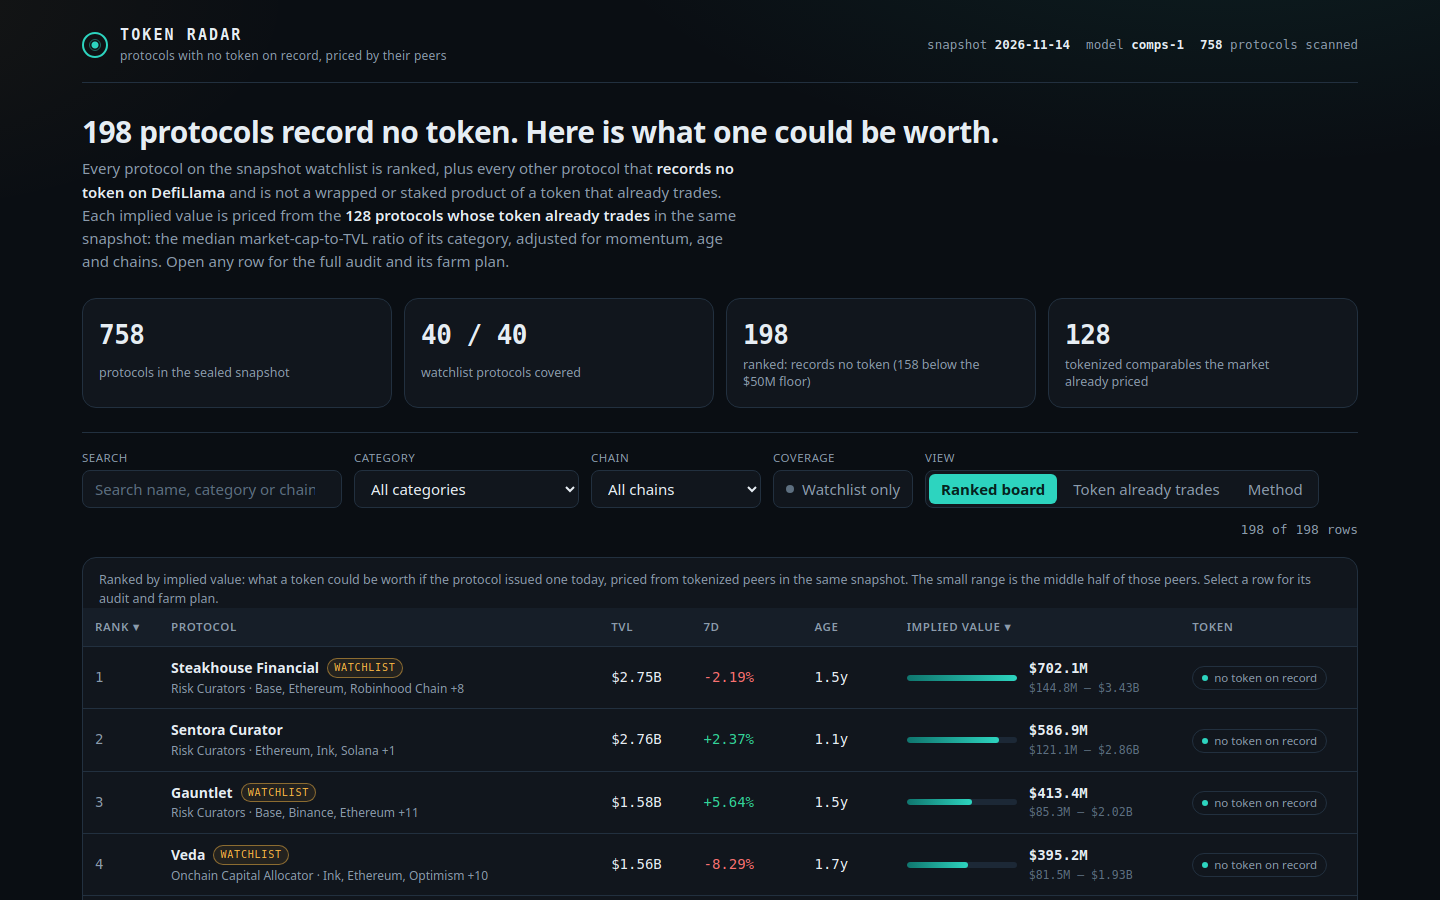
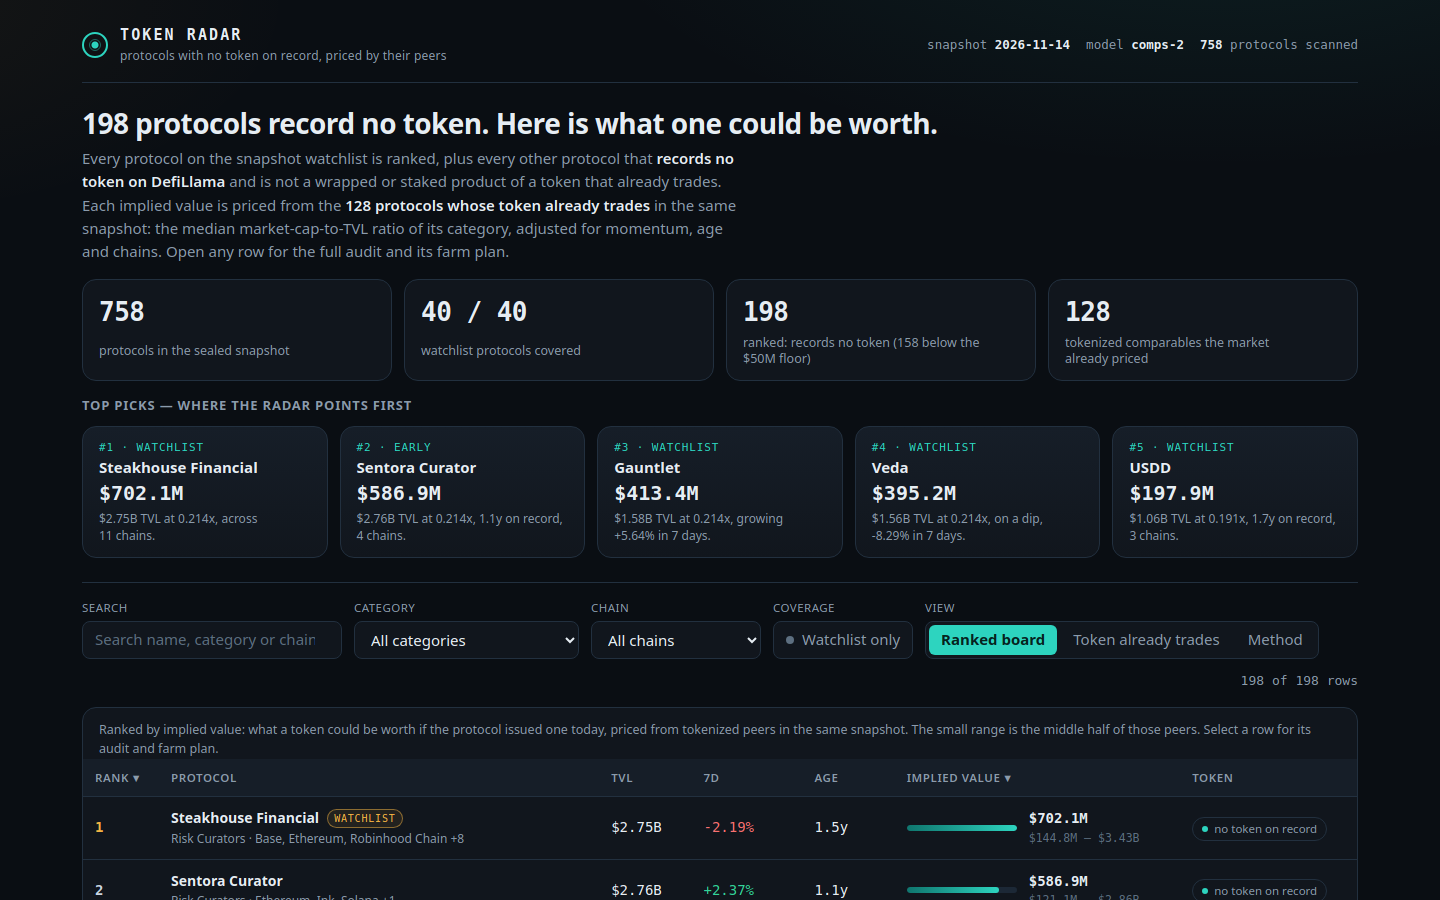
comps-2: thin-sample shrinkage, top-picks strip, risks & caveats in detail view

diff --git a/dashboard/app.js b/dashboard/app.js
@@ -346,6 +346,37 @@
     });
   }
 
+  // ---------------------------------------------------------- top picks
+  // One analyst line per pick: the price first, then whichever fact about the row stands out.
+  function whyLine(row) {
+    var g = DATA.global_ratio.median;
+    var head = row.ratio >= g * 1.5
+      ? 'Priced rich at ' + fmtRatio(row.ratio) + 'x TVL'
+      : fmtUsd(row.tvl_usd) + ' TVL at ' + fmtRatio(row.ratio) + 'x';
+    var tail;
+    if (row.growth_reported && row.change_7d >= 4) tail = 'growing ' + fmtPct(row.change_7d) + ' in 7 days';
+    else if (row.growth_reported && row.change_7d <= -8) tail = 'on a dip, ' + fmtPct(row.change_7d) + ' in 7 days';
+    else if ((row.chains || []).length >= 8) tail = 'across ' + row.chains.length + ' chains';
+    else if (row.age_days !== null && row.age_days !== undefined && row.age_days >= 730) tail = fmtAge(row.age_days) + ' on record';
+    else tail = fmtAge(row.age_days) + ' on record, ' + (row.chains || []).length + ' chains';
+    return head + ', ' + tail + '.';
+  }
+
+  function topPicks() {
+    var picks = DATA.rows.slice(0, 5);
+    return el('section', { class: 'picks', 'aria-label': 'Top five picks' },
+      el('h2', { class: 'picks-h', text: 'Top picks — where the radar points first' }),
+      el('div', { class: 'pick-grid' }, picks.map(function (r) {
+        return el('button', { type: 'button', class: 'pick', onclick: function () { openDetail(r.slug); } },
+          el('span', { class: 'rk', text: '#' + r.rank + (r.on_watchlist ? ' · watchlist' : ' · early') }),
+          el('b', { text: r.name }),
+          el('span', { class: 'pv num', text: fmtUsd(r.implied_value_usd) }),
+          el('span', { class: 'why', text: whyLine(r) })
+        );
+      }))
+    );
+  }
+
   // ---------------------------------------------------------- header, lede, controls
   function header() {
     return el('header', { class: 'top' },
@@ -466,7 +497,7 @@
         onclick: function () { openDetail(r.slug); },
         onkeydown: function (e) { if (e.key === 'Enter' || e.key === ' ') { e.preventDefault(); openDetail(r.slug); } }
       },
-        el('td', { class: 'rank', text: String(r.rank) }),
+        el('td', { class: 'rank' + (r.rank <= 3 ? ' m' + r.rank : ''), text: String(r.rank) }),
         el('td', null, el('div', { class: 'name' },
           el('span', { class: 'row1' },
             el('b', { text: r.name }),
@@ -546,7 +577,8 @@
     var g = DATA.global_ratio;
     var formula = [
       'ratio      = median(mcap / TVL) of the category\'s tokenized comparables, clamped to [0.02, 3]',
-      '             (the global median when the category has fewer than ' + C.min_comparables + ' comparables)',
+      '             (the global median when the category has fewer than ' + C.min_comparables + ' comparables;',
+      '             a thin category\'s ratios are shrunk toward the global set, weight n/(n+' + C.shrink_k + '))',
       'momentum   = 1 + clamp(change_7d, ' + C.momentum_floor_pct + ', ' + C.momentum_cap_pct + ') / 100 x ' + C.momentum_weight + '   (unreported: 1)',
       'age        = ' + C.age_base + ' + ' + C.age_range + ' x min(age_days, ' + C.age_full_days + ') / ' + C.age_full_days + '   (unknown age: ' + C.unknown_age_days + ' days)',
       'chains     = 1 + ' + C.chain_step + ' x min(max(chain_count - 1, 0), ' + C.chain_cap + ')',
@@ -557,7 +589,7 @@
       return el('tr', null,
         el('td', { text: t.category }),
         el('td', { class: 'num', text: String(t.n) }),
-        el('td', { class: 'num', text: fmtRatio(t.median) }),
+        el('td', { class: 'num', text: fmtRatio(t.median) + (t.used && t.raw_median !== t.median ? ' (raw ' + fmtRatio(t.raw_median) + ')' : '') }),
         el('td', { class: 'num', text: fmtRatio(t.p25) }),
         el('td', { class: 'num', text: fmtRatio(t.p75) }),
         el('td', { class: t.used ? 'used' : 'fallback', text: t.used ? 'category median' : 'global median' })
@@ -588,6 +620,11 @@
           el('tbody', null, ratioRows)
         )
       ),
+      el('p', null,
+        'The table shows the ratios actually used for pricing. Where a category\'s own median rests on few comparables it is ',
+        el('b', { text: 'shrunk toward the global median' }),
+        ' with weight n/(n+' + C.shrink_k + ') — the raw median is shown beside it — so three peers cannot hand a whole category an extreme multiple. The shrinkage fades as the comparable count grows.'
+      ),
       el('h3', { text: 'Who gets ranked' }),
       el('ul', null,
         el('li', null, el('b', { text: 'The watchlist is the floor. ' }), 'All ' + DATA.watchlist_size + ' watchlist protocols are on the board. The other ' + DATA.early_size + ' rows are every remaining protocol in the snapshot that records no token on DefiLlama and passes the same screen the watchlist uses.'),
@@ -602,7 +639,7 @@
       el('ul', null,
         el('li', null, el('b', { text: '"Records no token" is a record, not a fact. ' }), 'It means DefiLlama carries no market cap, CoinGecko id or symbol for the protocol in this snapshot. A protocol may still have a token its record does not carry.'),
         el('li', null, el('b', { text: 'Implied value is this entry\'s model claim. ' }), 'It prices a hypothetical token as if the protocol\'s record stayed as it is. It does not predict whether or when a token is issued, and it is not financial advice.'),
-        el('li', null, el('b', { text: 'Small samples are noisy. ' }), 'Category medians rest on as few as ' + C.min_comparables + ' comparables; the band beside each value shows how wide the middle half of those peers is. Momentum uses seven days of TVL change only.'),
+        el('li', null, el('b', { text: 'Small samples are noisy. ' }), 'Category medians rest on as few as ' + C.min_comparables + ' comparables; shrinkage toward the global median (weight n/(n+' + C.shrink_k + ')) keeps a thin set from pricing a whole category, and the band beside each value shows how wide the middle half of those peers is. Momentum uses seven days of TVL change only.'),
         el('li', null, el('b', { text: 'The snapshot is frozen. ' }), 'All figures are as of ' + DATA.as_of + ' (' + DATA.source + '). Nothing here updates.')
       )
     );
@@ -618,6 +655,21 @@
     return Math.round((below / DATA.rows.length) * 100);
   }
 
+  // Risks read off the row's own record: thin peer sets, wide bands, missing or falling
+  // momentum, short history, single-chain concentration. At most three, then the record caveat.
+  function risksOf(row, band) {
+    var out = [];
+    if (row.ratio_source === 'category' && row.ratio_n < 6) out.push('Thin peer set: priced from only ' + row.ratio_n + ' tokenized comparables (shrunk toward the global median), so treat the point estimate as soft.');
+    if (band.high / Math.max(1, band.low) >= 10) out.push('Wide peer band: the middle half of peers spans ' + fmtUsd(band.low) + ' to ' + fmtUsd(band.high) + ' — the band is the honest number, not the point.');
+    if (!row.growth_reported) out.push('Momentum unknown: seven-day TVL change is unreported, so the model assumes it is neutral rather than guessing.');
+    if (row.growth_reported && row.change_7d <= -10) out.push('Falling TVL: down ' + fmtPct(row.change_7d) + ' in seven days. Momentum already cuts the estimate; a continued slide would cut it further.');
+    if (row.age_days !== null && row.age_days !== undefined && row.age_days < 180) out.push('Short track record: listed ' + fmtAge(row.age_days) + ' ago. Young protocols fail more often than the age factor alone prices in.');
+    if ((row.chains || []).length <= 1) out.push('Single chain: all TVL sits on one chain, a concentration the chain factor (x1.00) does not reward.');
+    out = out.slice(0, 3);
+    out.push('"Records no token" is a DefiLlama record, not proof: a token may exist that this snapshot does not carry, and no launch is predicted or promised.');
+    return out;
+  }
+
   function openDetail(slug) {
     var row = null;
     DATA.rows.forEach(function (r) { if (r.slug === slug) row = r; });
@@ -631,7 +683,7 @@
     var steps = farmStepsOf(row);
     var stats = ratioStatsOf(row);
     var ratioNote = row.ratio_source === 'category'
-      ? 'the ' + (row.category || 'Other') + ' median from ' + row.ratio_n + ' tokenized comparables'
+      ? 'the ' + (row.category || 'Other') + ' median from ' + row.ratio_n + ' tokenized comparables, shrunk toward the global median by sample size'
       : 'the global median from ' + row.ratio_n + ' tokenized comparables (its category has fewer than ' + C.min_comparables + ')';
     var momentumNote = row.growth_reported
       ? 'Seven-day TVL change of ' + fmtPct(row.change_7d) + ' moves the estimate to x' + m.momentum + '.'
@@ -677,6 +729,10 @@
       )
     ));
     dialog.appendChild(el('section', { class: 'dsec' },
+      el('h3', { text: 'Risks and caveats' }),
+      el('ul', { class: 'risks' }, risksOf(row, band).map(function (t) { return el('li', { text: t }); }))
+    ));
+    dialog.appendChild(el('section', { class: 'dsec' },
       el('h3', { text: 'Farm plan' }),
       el('ol', { class: 'steps' }, steps.map(function (s) {
         var at = s.indexOf(' Cost: ');
@@ -698,6 +754,7 @@
     var shell = el('div', { class: 'shell' });
     shell.appendChild(header());
     shell.appendChild(lede());
+    if (state.tab === 'board') shell.appendChild(topPicks());
     shell.appendChild(controls());
     if (state.tab === 'live') shell.appendChild(liveTable());
     else if (state.tab === 'method') shell.appendChild(methodView());

diff --git a/lib/model.ts b/lib/model.ts
@@ -11,7 +11,10 @@
 // carries its inputs so the number can be re-derived by hand.
 //
 //   ratio      = median(mcap/tvl) of the category's comparables, clamped to [0.02, 3]
-//                (global median when the category has fewer than 3 comparables)
+//                (global median when the category has fewer than 3 comparables). A thin
+//                category's median, p25 and p75 are shrunk toward the global set with
+//                weight n/(n+3), so a category priced from three peers cannot claim a
+//                wild multiple on three observations; the shrinkage fades as n grows.
 //   momentum   = 1 + clamp(change_7d, -50, 100) / 100 * 0.35        (unreported: 1)
 //   age        = 0.85 + 0.15 * min(age_days, 1095) / 1095           (unknown age: 365 days)
 //   chains     = 1 + 0.03 * min(max(chain_count - 1, 0), 10)
@@ -45,11 +48,12 @@ export interface Snapshot {
   watchlist: string[];
 }
 
-export const MODEL_VERSION = 'comps-1';
+export const MODEL_VERSION = 'comps-2';
 
 /** The model's stated constants. Everything else is derived from the snapshot at run time. */
 export const CONSTANTS = {
   min_comparables: 3, // a category needs this many tokenized protocols before its own median is used
+  shrink_k: 3, // pseudo-count: a category's ratios are weighted n/(n+shrink_k) against the global set
   ratio_floor: 0.02,
   ratio_cap: 3,
   band_floor: 0.005,
@@ -145,8 +149,18 @@ function statsOf(ratios: number[]): RatioStats {
 export interface Comparables {
   global: RatioStats;
   byCategory: Map<string, RatioStats>;
-  /** Every category that has any comparable, for the methodology table. */
-  table: { category: string; n: number; median: number; p25: number; p75: number; used: boolean }[];
+  /**
+   * Every category that has any comparable, for the methodology table. median/p25/p75 are the
+   * ratios actually used for pricing (shrunk toward the global set); raw_median is the
+   * category's own unshrunk median, kept so the shrinkage is visible, never hidden.
+   */
+  table: { category: string; n: number; median: number; p25: number; p75: number; raw_median: number; used: boolean }[];
+}
+
+/** One ratio statistic pulled toward the global set by sample size: (n*own + k*global)/(n+k). */
+function shrunk(own: RatioStats, global: RatioStats, k: number): RatioStats {
+  const blend = (a: number, b: number): number => (own.n * a + k * b) / (own.n + k);
+  return { n: own.n, median: blend(own.median, global.median), p25: blend(own.p25, global.p25), p75: blend(own.p75, global.p75) };
 }
 
 export function buildComparables(snapshot: Snapshot, c: Constants = CONSTANTS): Comparables {
@@ -161,16 +175,26 @@ export function buildComparables(snapshot: Snapshot, c: Constants = CONSTANTS): 
     list.push(ratio);
     perCategory.set(key, list);
   }
+  const global = statsOf(all);
   const byCategory = new Map<string, RatioStats>();
   const table: Comparables['table'] = [];
   for (const [category, ratios] of perCategory) {
-    const stats = statsOf(ratios);
-    const used = stats.n >= c.min_comparables;
+    const raw = statsOf(ratios);
+    const used = raw.n >= c.min_comparables;
+    const stats = used ? shrunk(raw, global, c.shrink_k) : raw;
     if (used) byCategory.set(category, stats);
-    table.push({ category, n: stats.n, median: round4(stats.median), p25: round4(stats.p25), p75: round4(stats.p75), used });
+    table.push({
+      category,
+      n: raw.n,
+      median: round4(stats.median),
+      p25: round4(stats.p25),
+      p75: round4(stats.p75),
+      raw_median: round4(raw.median),
+      used,
+    });
   }
   table.sort((a, b) => b.n - a.n || (a.category < b.category ? -1 : 1));
-  return { global: statsOf(all), byCategory, table };
+  return { global, byCategory, table };
 }
 
 /** The ratio set one candidate is priced with: its category's when it has one, else the global set. */

diff --git a/dashboard/app.css b/dashboard/app.css
@@ -33,7 +33,7 @@ body {
   text-wrap: pretty;
 }
 h1, h2, h3 { margin: 0; letter-spacing: -0.02em; text-wrap: balance; font-weight: 650; }
-h1 { font-size: 30px; line-height: 1.15; }
+h1 { font-size: 28px; line-height: 1.15; }
 h2 { font-size: 19px; line-height: 1.25; }
 h3 { font-size: 15px; line-height: 1.3; }
 p { margin: 0; }
@@ -69,17 +69,32 @@ button { cursor: pointer; }
 .top-meta b { color: var(--ink); font-weight: 600; }
 
 /* lede + stats */
-.lede { padding: var(--s6) 0 var(--s5); display: grid; gap: var(--s5); }
+.lede { padding: var(--s5) 0 var(--s4); display: grid; gap: var(--s4); }
 .lede p { color: var(--muted); max-width: 78ch; margin-top: var(--s2); }
 .lede p b { color: var(--ink); font-weight: 600; }
 .stats { display: grid; grid-template-columns: repeat(4, minmax(0, 1fr)); gap: var(--s3); }
 .stat {
   background: var(--surface); border: 1px solid var(--line); border-radius: var(--r-panel);
-  padding: var(--s4); display: grid; gap: 2px;
+  padding: var(--s3) var(--s4); display: grid; gap: 2px;
 }
 .stat .n { font-family: var(--mono); font-size: 26px; font-weight: 650; letter-spacing: -0.02em; }
 .stat .n em { font-style: normal; color: var(--accent); }
 .stat .l { color: var(--muted); font-size: 12.5px; line-height: 1.35; }
+
+/* top picks */
+.picks { padding-bottom: var(--s5); }
+.picks-h { font-size: 13px; letter-spacing: 0.06em; text-transform: uppercase; color: var(--muted); margin-bottom: var(--s3); }
+.pick-grid { display: grid; grid-template-columns: repeat(5, minmax(0, 1fr)); gap: var(--s3); }
+.pick {
+  text-align: left; display: grid; gap: 2px; align-content: start;
+  background: linear-gradient(180deg, var(--surface-2), var(--surface));
+  border: 1px solid var(--line); border-radius: var(--r-panel); padding: var(--s3) var(--s4);
+}
+.pick:hover { border-color: rgba(45, 212, 191, 0.5); }
+.pick .rk { font-family: var(--mono); font-size: 11px; letter-spacing: 0.08em; color: var(--accent); text-transform: uppercase; }
+.pick b { font-weight: 650; line-height: 1.25; }
+.pick .pv { font-size: 20px; font-weight: 650; color: var(--ink); }
+.pick .why { color: var(--muted); font-size: 12px; line-height: 1.4; }
 
 /* controls */
 .controls {
@@ -121,6 +136,9 @@ tbody tr[data-selected="true"] { background: var(--accent-dim); }
 tbody tr:last-child td { border-bottom: 0; }
 .num { font-family: var(--mono); font-variant-numeric: tabular-nums; white-space: nowrap; }
 .rank { font-family: var(--mono); color: var(--muted); }
+.rank.m1 { color: #f5b544; font-weight: 700; }
+.rank.m2 { color: #c9d4e0; font-weight: 700; }
+.rank.m3 { color: #e0a37e; font-weight: 700; }
 .name { display: grid; gap: 1px; min-width: 180px; }
 .name .row1 { display: flex; align-items: center; gap: var(--s2); flex-wrap: wrap; }
 .name b { font-weight: 650; }
@@ -192,6 +210,8 @@ tbody tr:last-child td { border-bottom: 0; }
 .equation .total b { color: var(--accent); font-size: 15px; }
 .why { color: var(--muted); display: grid; gap: var(--s2); }
 .why b { color: var(--ink); font-weight: 600; }
+.risks { margin: 0; padding-left: var(--s5); display: grid; gap: var(--s2); color: var(--muted); }
+.risks li::marker { color: var(--amber); }
 .steps { margin: 0; padding: 0; list-style: none; display: grid; gap: var(--s3); counter-reset: step; }
 .steps li {
   position: relative; padding: var(--s3) var(--s3) var(--s3) 44px;
@@ -209,6 +229,7 @@ tbody tr:last-child td { border-bottom: 0; }
 @media (max-width: 980px) {
   .shell { padding: var(--s4); }
   .stats { grid-template-columns: repeat(2, minmax(0, 1fr)); }
+  .pick-grid { grid-template-columns: repeat(2, minmax(0, 1fr)); }
   .field input[type="search"] { min-width: 0; width: 100%; }
   .count { margin-left: 0; }
 }

diff --git a/BUILD-NOTES.md b/BUILD-NOTES.md
@@ -57,3 +57,39 @@ Writes out/board.json, out/data.js, out/dashboard/, out/screenshots/, out/dossie
 - vendor/makefun-board.ts — kit vendor file, untouched
 - screenshots/1-board.png, 2-detail.png, 3-filtered.png
 - LICENSE — MIT (from starter)
+
+## Improvement pass 2026-11-21 (post-submission, NOT yet resubmitted)
+
+Model "comps-2": thin-category shrinkage. A category's median/p25/p75 are blended toward
+the global set with weight n/(n+3) (`shrink_k`), so a category priced from 3–4 peers cannot
+claim an extreme multiple. The methodology table shows the ratios actually used plus the raw
+median. Effect on this snapshot: Circle Gateway (Cross Chain Bridge, n=4) ratio 1.2205 →
+0.789, rank #12 → #22, implied $69.1M → $44.7M; USDD (CDP, n=3) ratio 0.1687 → 0.1913,
+implied $174.6M → $197.9M; BitFi Basis (n=7) 0.6544 → 0.5222. Audit before the change found
+no other embarrassments: top of board is large-TVL protocols at the global median, bands are
+wide but disclosed, unreported change_7d is handled as neutral momentum.
+
+Dashboard: added a "Top picks" strip (top 5 cards with a data-derived one-line why, click
+opens the detail), a "Risks and caveats" section in every detail view (thin peer set, wide
+band, missing/falling momentum, short history, single-chain concentration — all read off
+the row's own record), gold/silver/bronze rank tints for #1–#3, and tightened vertical
+rhythm so the board table shows in the first screenshot. Method view documents the
+shrinkage. Dashboard source 61,991 B; dossier text 62,257 B — still whole, no cut.
+
+Re-verified 2026-11-21: double run byte-identical (board/data/dossier md5); board
+invariants (198 rows, ranks 1..198, non-increasing, 40/40 watchlist, farm steps 20–600
+chars, bands sane); Playwright in-page recompute matches board.json on all 198 rows
+(implied + band + farm steps, 0 mismatches), Dexs filter 21 rows, no page errors;
+screenshots regenerated 1440×900 (219–248 KB); zero http(s) refs; kit `check --worktree`
+passes everything except transcripts_present (no bundle passed — bundle at submit time,
+including this improvement session).
+
+## SUBMITTED 2026-11-21 17:31 WIB
+- Submission ID: 01a1fda9-78c8-76d4-80cf-128fadb20cfb
+- Claim code: AF-H0367-5FTK2-T6A35-RAZTY
+- Repo: https://github.com/Ndar8/token-radar-01 (public, created 2026-11-21)
+- Commit: b91e066bc9a0bd756302340070da6f966436456d
+- Title: "Token Launch Radar", as @iskandar, payout wallet 2p27JdpWBdzPvpb6Nf9mhbAoJE7uDXvgZxUuGZWEQsUR
+- Bundle: ~/workspace/makefun/transcripts-tokenradar.tar.gz (sha256 19888710...); usage file ~/workspace/makefun/muse-usage-tokenradar.jsonl
+- check: 14 passed, 0 failed. Escrowed bounty — submit needs --keypair ~/.makefun/keypairs/https_make.fun.json
+- Deadline 2026-12-14T10:00:00Z; max 5/day, 10 total; last submission before deadline is final
